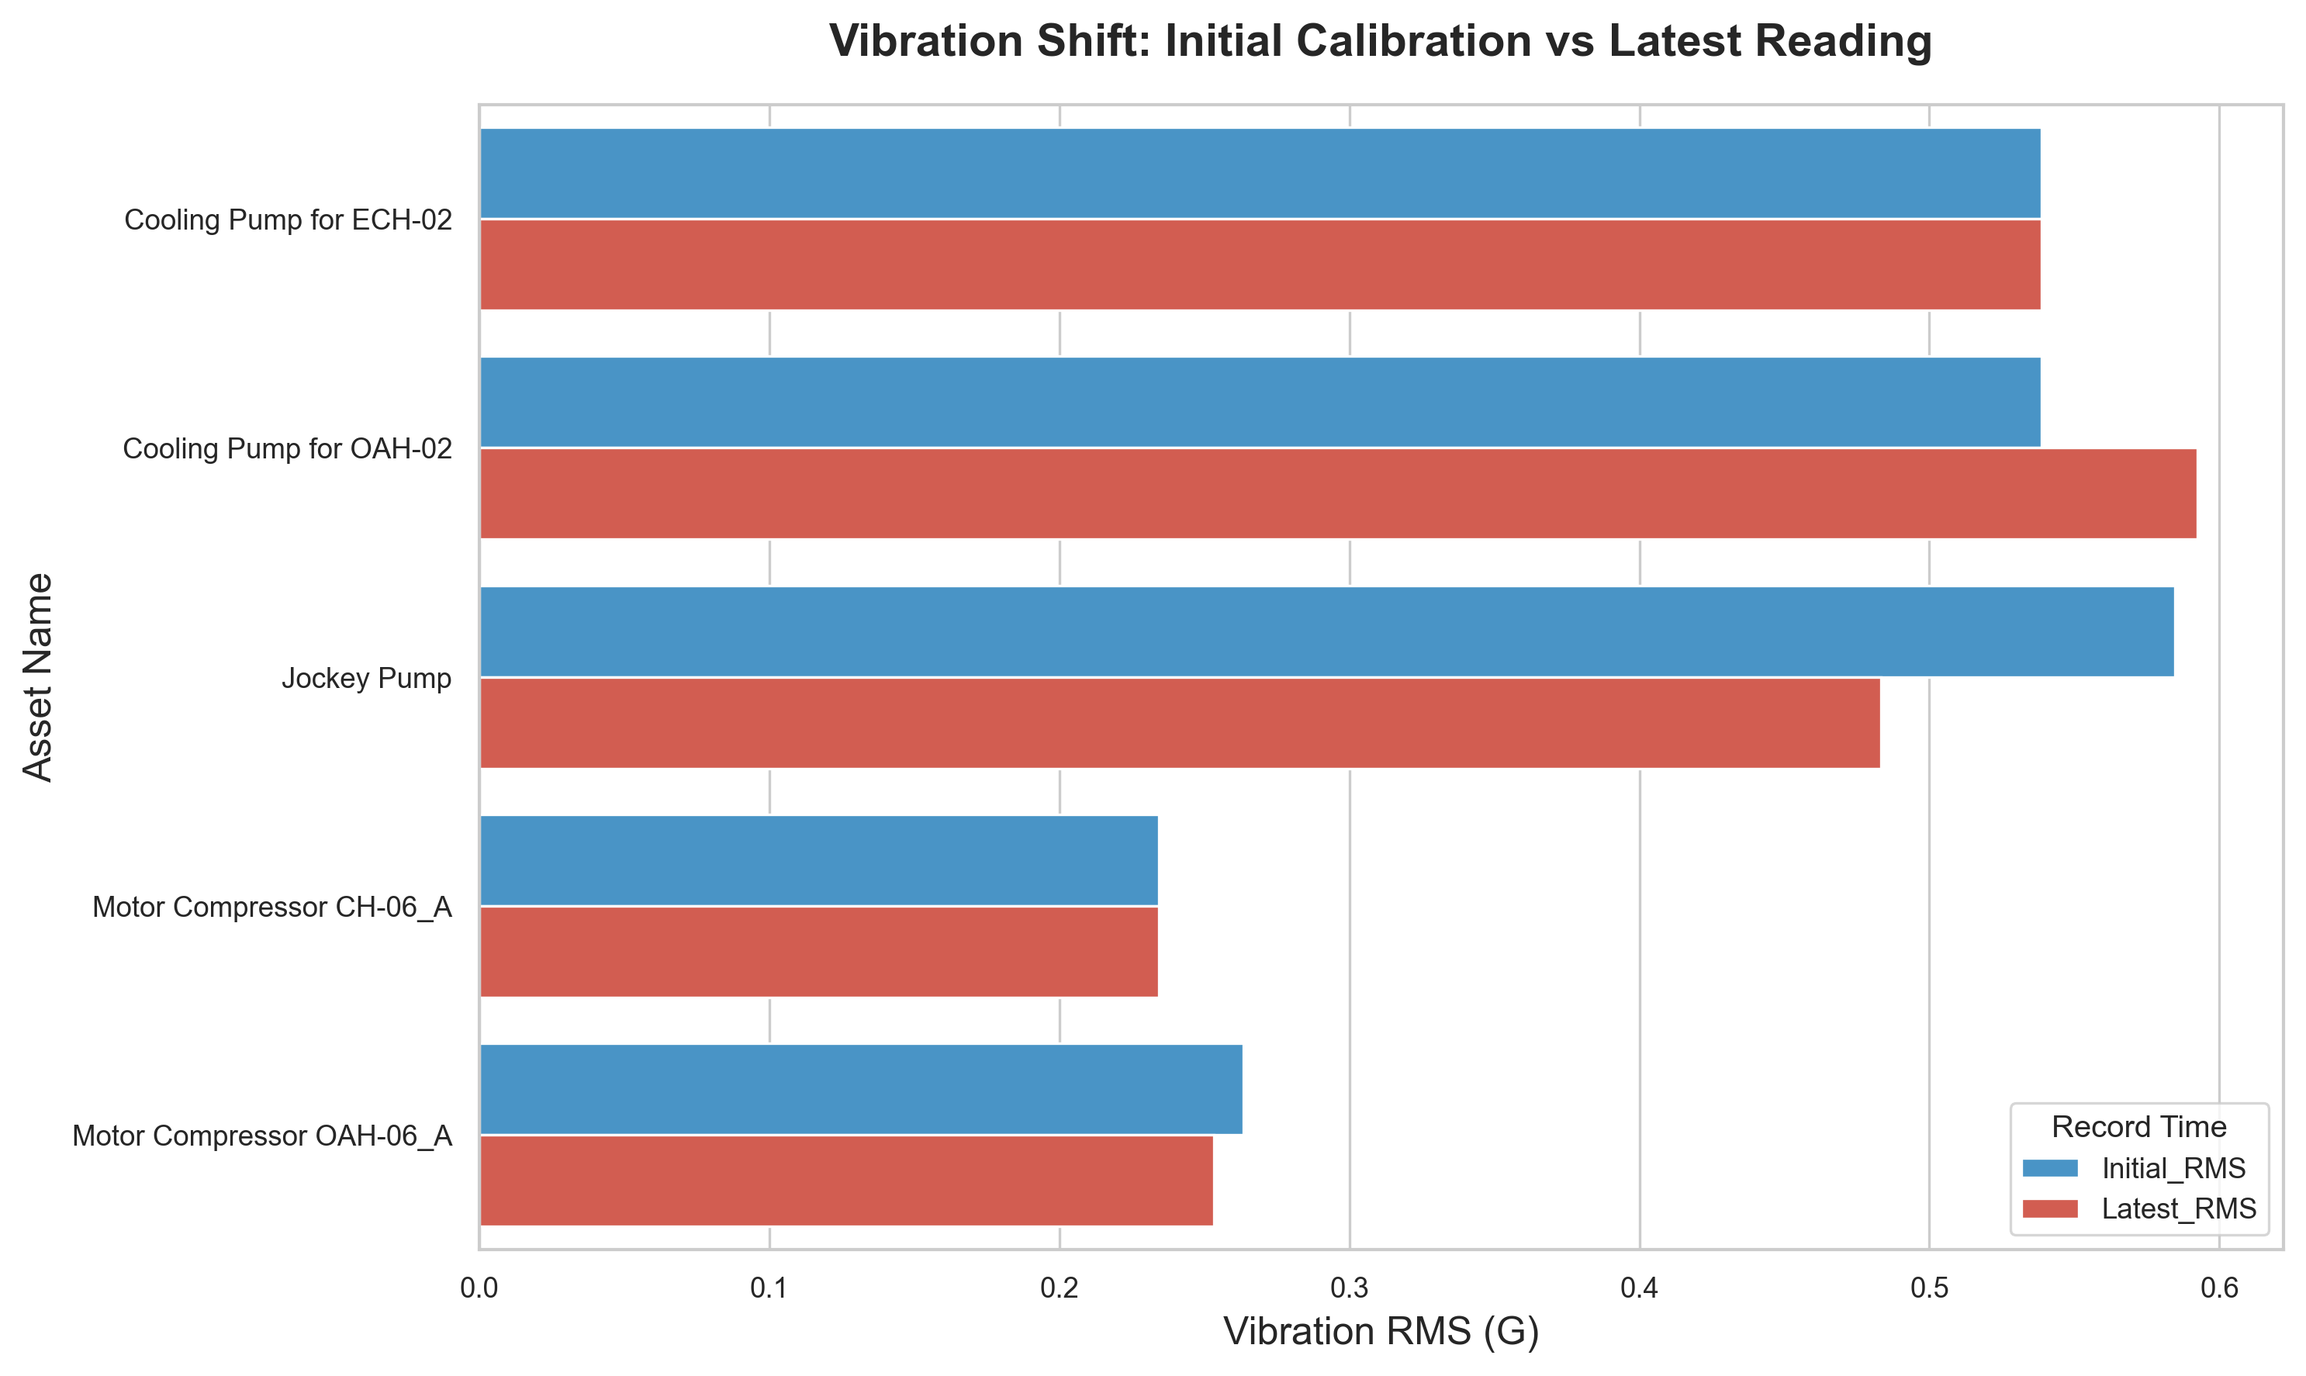
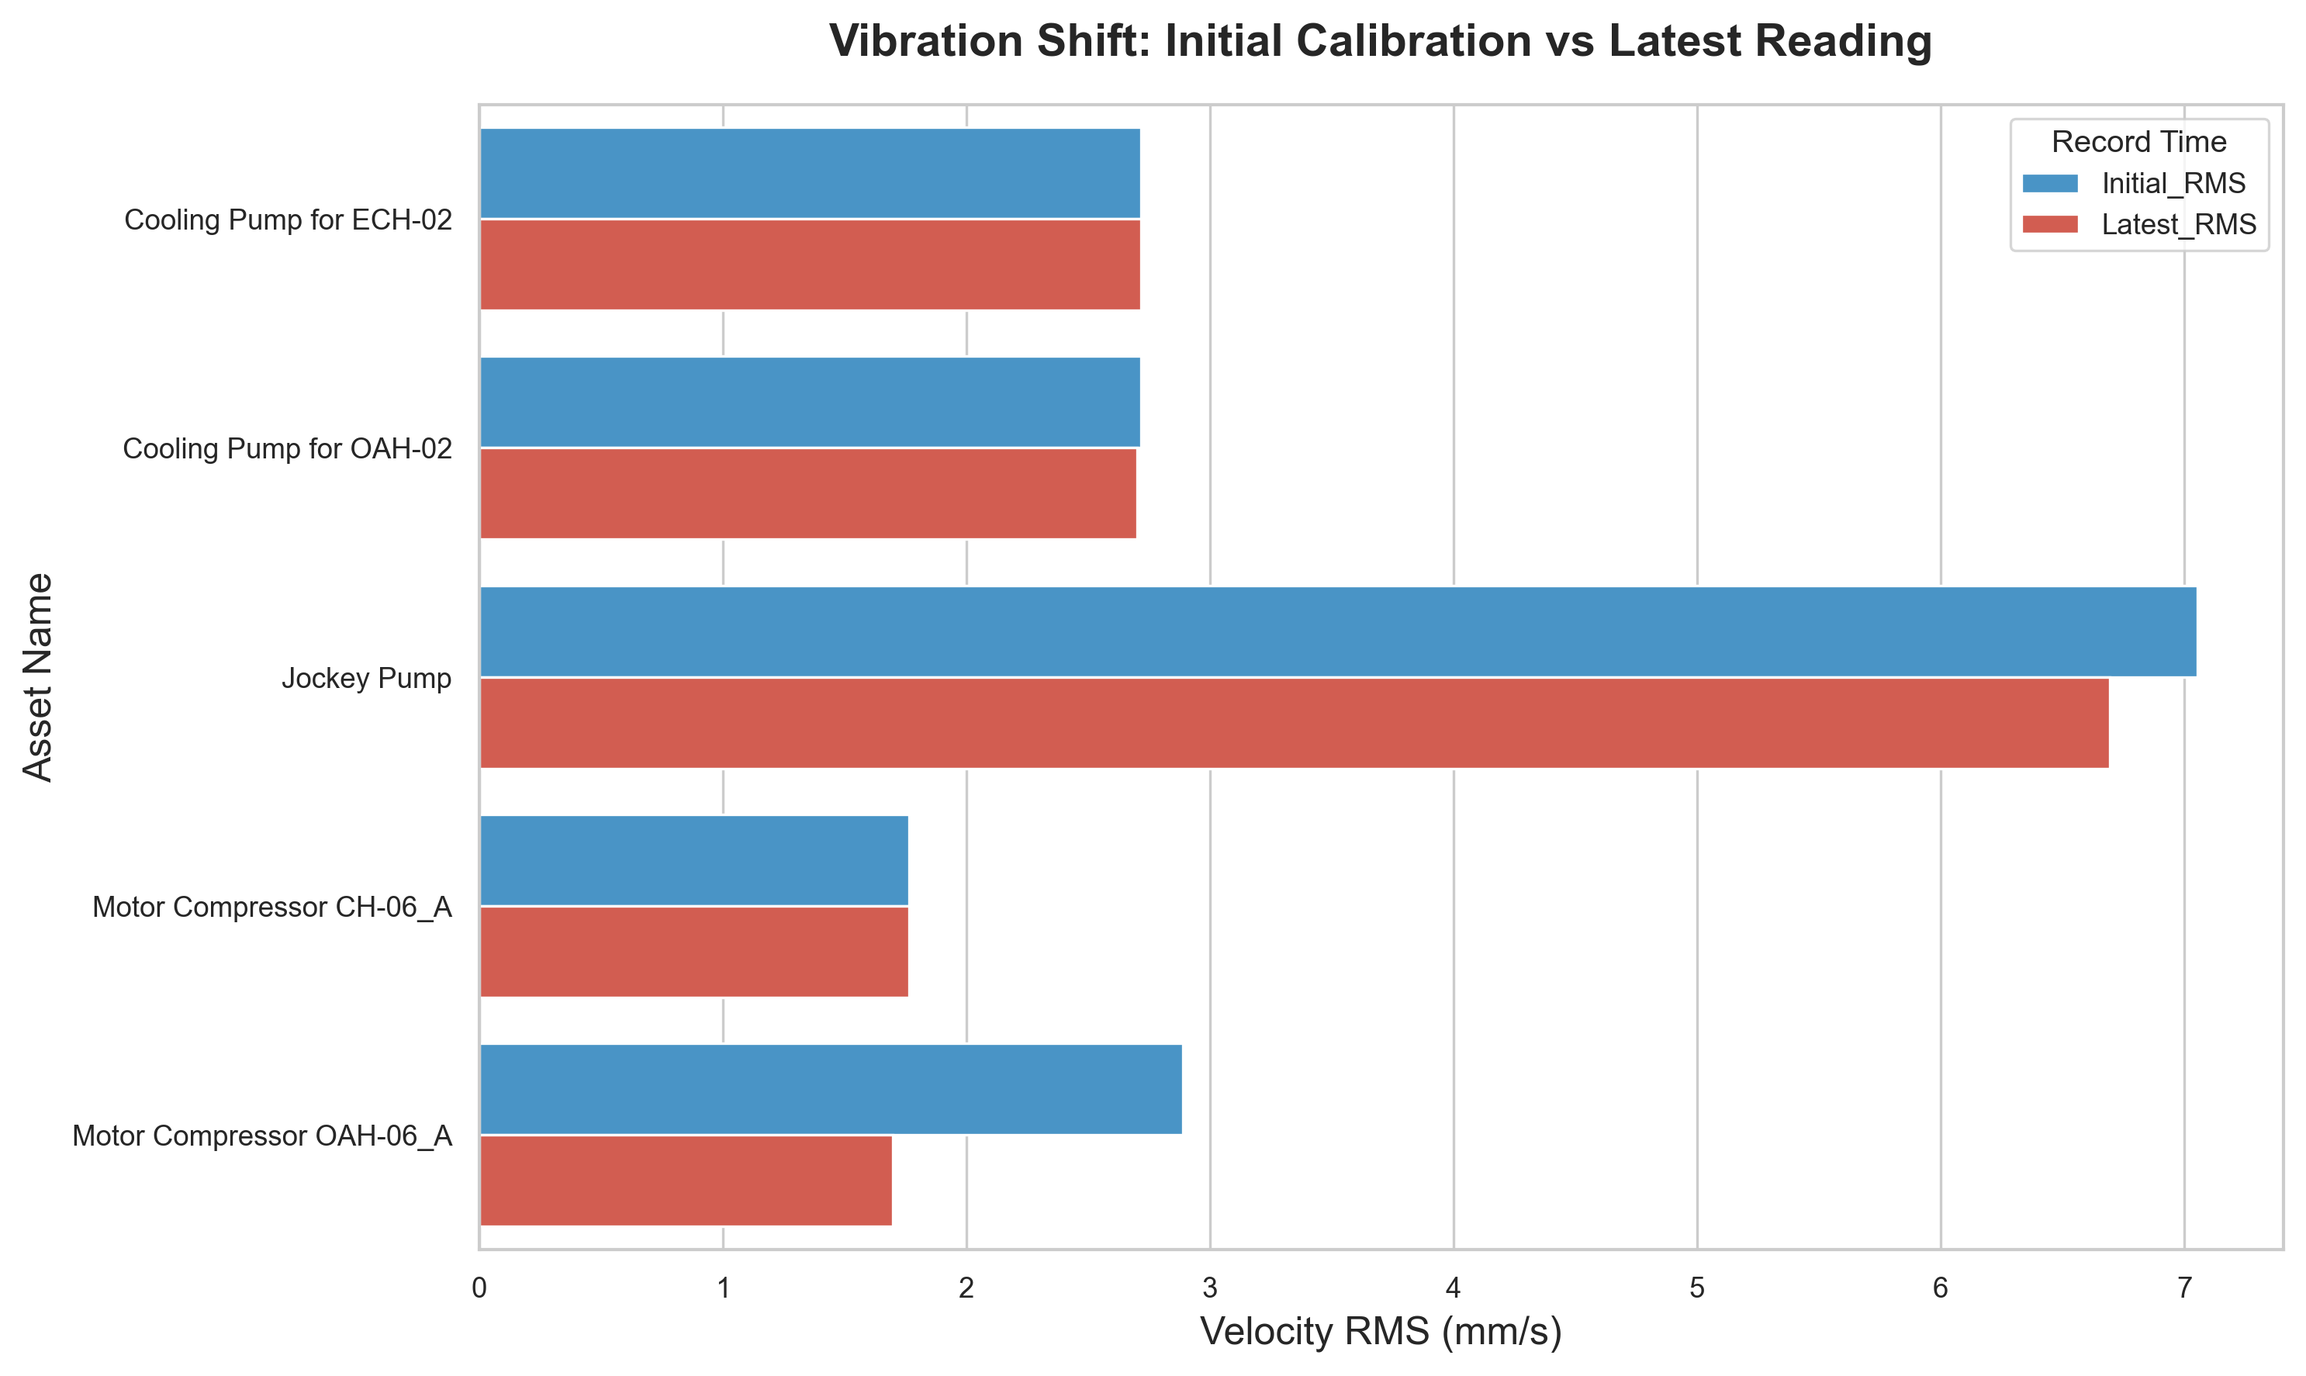
feat: complete refactoring, visualization upgrades, and metric fixes
- Remove obsolete test scripts
- Fix cumulative integration and mathematical polyfit issues
- Add and upgrade visualizations for trend analysis (Heatmap, Time series, Shift bar)
- Add prettytable dependency for CLI presentation
- Update README.md with accurate real-world analysis results

diff --git a/core/parser.py b/core/parser.py
@@ -3,10 +3,31 @@ import pandas as pd
 import numpy as np
 from pathlib import Path
 
-def get_rms_math(arr):
-    if not arr:
+def get_rms_math(times_ms, amplitudes_g):
+    if not amplitudes_g or len(times_ms) != len(amplitudes_g) or len(times_ms) < 2:
         return 0.0
-    return float(np.sqrt(np.mean(np.array(arr)**2)))
+        
+    # 0. VERY IMPORTANT: Sort data by Time
+    # Raw log reads left-to-right but columns are interleaved block-by-block.
+    # Without sorting, Time jumps randomly (e.g., 0 -> 133 -> 266 -> 0.13) causing integration explosion!
+    sort_idx = np.argsort(times_ms)
+    t_sec = np.array(times_ms)[sort_idx] / 1000.0
+    a_mms2 = np.array(amplitudes_g)[sort_idx] * 9806.65
+    
+    # 1. Detrend DC Offset from Acceleration
+    a_mms2 = a_mms2 - np.mean(a_mms2)
+    
+    # 2. Integrate Acceleration to Velocity using Trapezoidal method
+    v_mms = np.zeros_like(a_mms2)
+    dt = np.diff(t_sec)
+    a_avg = (a_mms2[:-1] + a_mms2[1:]) / 2.0
+    v_mms[1:] = np.cumsum(a_avg * dt)
+    
+    # 3. Detrend DC Offset from Velocity (Remove drift)
+    v_mms = v_mms - np.mean(v_mms)
+    
+    # 4. Calculate RMS of Velocity (mm/s)
+    return float(np.sqrt(np.mean(v_mms**2)))
 
 def collect_measurements(scan_dir):
     loc_path = Path(scan_dir)
@@ -21,6 +42,7 @@ def collect_measurements(scan_dir):
             
         machine = "UNKNOWN"
         recorded_time = None
+        raw_times = []
         raw_amplitudes = []
         is_reading_data = False
         
@@ -30,17 +52,17 @@ def collect_measurements(scan_dir):
             # If we hit a new Equipment block, save the previous one if it exists
             if row_clean.startswith("Equipment:"):
                 if is_reading_data and machine != "UNKNOWN" and raw_amplitudes:
-                    # Clean up machine name inconsistencies (e.g. remove CHPP tag)
                     clean_machine_name = machine.replace("(CHPP)", "").strip()
                     extracted_items.append({
                         "Equipment": clean_machine_name,
                         "Timestamp": recorded_time,
-                        "RMS_Value": get_rms_math(raw_amplitudes),
+                        "RMS_Value": get_rms_math(raw_times, raw_amplitudes),
                         "Source_File": txt_file.name
                     })
                 
                 machine = row_clean.split(":", 1)[1].strip()
-                raw_amplitudes = [] # Reset for new block
+                raw_times = [] 
+                raw_amplitudes = [] 
                 is_reading_data = False
                 
             elif row_clean.startswith("Date/Time:"):
@@ -53,6 +75,7 @@ def collect_measurements(scan_dir):
             elif is_reading_data and row_clean:
                 chunks = row_clean.replace(",", "").split()
                 for i in range(0, len(chunks)-1, 2):
+                    t_str = chunks[i]
                     amp_str = chunks[i+1]
                     
                     for sign in ["-", "+"]:
@@ -60,9 +83,13 @@ def collect_measurements(scan_dir):
                         if idx != -1 and "e" not in amp_str.lower():
                             amp_str = amp_str[:idx] + "e" + amp_str[idx:]
                             break
-                    
+                            
+                    # Some time values might also trigger the float bug or be empty
                     try:
-                        raw_amplitudes.append(float(amp_str))
+                        parsed_t = float(t_str)
+                        parsed_a = float(amp_str)
+                        raw_times.append(parsed_t)
+                        raw_amplitudes.append(parsed_a)
                     except ValueError:
                         pass
         
@@ -72,7 +99,7 @@ def collect_measurements(scan_dir):
             extracted_items.append({
                 "Equipment": clean_machine_name,
                 "Timestamp": recorded_time,
-                "RMS_Value": get_rms_math(raw_amplitudes),
+                "RMS_Value": get_rms_math(raw_times, raw_amplitudes),
                 "Source_File": txt_file.name
             })
         

diff --git a/core/visualize.py b/core/visualize.py
@@ -21,12 +21,13 @@ def generate_visualizations(logs_table, out_dir):
         plt.plot(ordered['Timestamp'], ordered['RMS_Value'], 
                  marker='o', linestyle='-', linewidth=2.5, markersize=8, label=asst)
     
-    # Removed the 4.5 / 7.1 ISO limits here because our data is in G (0.2 - 0.6) 
-    # Having those limits crushes the Y-axis scale and makes the data look like a flat line at 0.
+    # Add back ISO Limits as data is now properly integrated to Velocity (mm/s)
+    plt.axhline(y=4.5, color='orange', linestyle='--', alpha=0.7, label='Zone C (Warning)')
+    plt.axhline(y=7.1, color='red', linestyle='--', alpha=0.7, label='Zone D (Danger)')
     
-    plt.title('Machine Vibration Trends (Micro-Vibration Scaling)', fontsize=14, pad=15, fontweight='bold')
+    plt.title('Machine Vibration Trends (Velocity RMS)', fontsize=14, pad=15, fontweight='bold')
     plt.xlabel('Date / Time', fontsize=12)
-    plt.ylabel('Vibration RMS (G)', fontsize=12)
+    plt.ylabel('Velocity RMS (mm/s)', fontsize=12)
     plt.xticks(rotation=15)
     plt.legend(bbox_to_anchor=(1.02, 1), loc='upper left')
     plt.tight_layout()
@@ -48,12 +49,12 @@ def generate_visualizations(logs_table, out_dir):
     latest_records.rename(columns={'RMS_Value': 'Latest_RMS'}, inplace=True)
     
     merged_shift = pd.merge(first_records, latest_records, on='Equipment')
-    merged_shift_melted = merged_shift.melt(id_vars='Equipment', var_name='Reading', value_name='RMS (G)')
+    merged_shift_melted = merged_shift.melt(id_vars='Equipment', var_name='Reading', value_name='Velocity RMS (mm/s)')
     
-    sns.barplot(data=merged_shift_melted, x='RMS (G)', y='Equipment', hue='Reading', palette=['#3498db', '#e74c3c'])
+    sns.barplot(data=merged_shift_melted, x='Velocity RMS (mm/s)', y='Equipment', hue='Reading', palette=['#3498db', '#e74c3c'])
     
     plt.title('Vibration Shift: Initial Calibration vs Latest Reading', fontsize=14, pad=15, fontweight='bold')
-    plt.xlabel('Vibration RMS (G)', fontsize=12)
+    plt.xlabel('Velocity RMS (mm/s)', fontsize=12)
     plt.ylabel('Asset Name', fontsize=12)
     plt.legend(title='Record Time')
     plt.tight_layout()

diff --git a/core/forecast.py b/core/forecast.py
@@ -1,28 +1,40 @@
 import numpy as np
+import pandas as pd
 import datetime
 
 def calc_breakdown_point(hist_data, danger_mark=7.1):
     if len(hist_data) < 2:
         return "Stable or Improving", None
 
-    # Time values as days
-    time_series_x = [t.toordinal() for t in hist_data["Timestamp"]]
+    # Calculate days (as float) from the first record to avoid large X coordinates 
+    # and handle multiple entries on the same day properly.
+    start_date = hist_data["Timestamp"].iloc[0]
+    time_series_x = [(t - start_date).total_seconds() / 86400.0 for t in hist_data["Timestamp"]]
     y_vibes = hist_data["RMS_Value"].tolist()
 
+    # Prevent polyfit error if all data points are taken at the exact same exact timestamp
+    if max(time_series_x) - min(time_series_x) == 0:
+         return "Stable or Improving", None
+
     try:
-        # Fit a 1-degree polynomial (straight line)
+        # Fit a 1-degree polynomial (y = mx + b)
         m_curve, b_intercept = np.polyfit(time_series_x, y_vibes, 1)
     except Exception:
         return "Stable or Improving", None
 
+    # If the trend is going down or flat, it's not degrading
     if m_curve <= 0.0:
         return "Stable or Improving", None
 
-    # Calculate when it hits danger_mark
-    intersection_x = (danger_mark - b_intercept) / m_curve
+    # Calculate how many days from the start_date it takes to hit danger_mark
+    days_to_crash = (danger_mark - b_intercept) / m_curve
     
+    # If the calculated days point to the past, the trend doesn't make sense
+    if days_to_crash < 0:
+        return "Degrading", None
+        
     try:
-        crash_dt = datetime.date.fromordinal(int(intersection_x))
-        return "Degrading", crash_dt
-    except ValueError:
+        crash_dt = start_date + pd.Timedelta(days=int(days_to_crash))
+        return "Degrading", crash_dt.strftime('%Y-%m-%d')
+    except (ValueError, OverflowError):
         return "Degrading", None

diff --git a/main.py b/main.py
@@ -49,10 +49,19 @@ def start_job():
 
     final_overview = pd.DataFrame(summary_list)
     
+    from prettytable import PrettyTable
+    pt = PrettyTable()
+    pt.field_names = ["Equipment", "Latest_RMS (mm/s)", "Status", "Trend", "Est_Failure"]
+    pt.align = "l"  # Align text to the left
+    pt.align["Latest_RMS (mm/s)"] = "r" # Align numbers to the right
+    pt.align["Trend"] = "c"
+    pt.align["Est_Failure"] = "c"
+    
+    for row in summary_list:
+        pt.add_row([row["Equipment"], row["Latest_RMS"], row["Status"], row["Trend"], row["Est_Failure"]])
+    
     print("\n[ TODAY'S ASSET OVERVIEW ]")
-    print("-" * 65)
-    print(final_overview.to_string(index=False))
-    print("-" * 65)
+    print(pt)
 
     csv_target = Path(out_dir) / "vibration_analysis_summary.csv"
     final_overview.to_csv(csv_target, index=False)

diff --git a/README.md b/README.md
@@ -48,19 +48,22 @@
 
 จากการรันระบบตรวจสอบข้อมูลการสั่นสะเทือนของชุดเครื่องจักรที่ถูกเก็บค่า Waveform ไว้ในโฟลเดอร์ `data/` ล่าสุด ระบบสามารถทำการประเมินสถานะออกมาเป็นรายงาน ดังนี้:
 
-| Equipment | Latest_RMS (G) | Status | Trend | Est_Failure |
+| Equipment | Latest_RMS (mm/s) | Status | Trend | Est_Failure |
 |:---|:---:|:---|:---:|:---:|
-| Cooling Pump for ECH-02 | 0.54 | Zone A (Green) - Newly commissioned | Degrading | N/A |
-| Cooling Pump for OAH-02 | 0.59 | Zone A (Green) - Newly commissioned | Degrading | 2054-06-26 |
-| Motor Compressor OAH-06_A | 0.25 | Zone A (Green) - Newly commissioned | Stable or Improving | N/A |
-| Jockey Pump | 0.48 | Zone A (Green) - Newly commissioned | Stable or Improving | N/A |
-| Motor Compressor CH-06_A | 0.23 | Zone A (Green) - Newly commissioned | Stable or Improving | N/A |
+| Cooling Pump for ECH-02 | 2.72 | Zone B (Yellow) - Unrestricted operation | Stable or Improving | N/A |
+| Cooling Pump for OAH-02 | 2.70 | Zone B (Yellow) - Unrestricted operation | Stable or Improving | N/A |
+| Motor Compressor OAH-06_A | 1.70 | Zone A (Green) - Newly commissioned | Stable or Improving | N/A |
+| Jockey Pump | 6.69 | Zone C (Orange) - Restricted operation | Stable or Improving | N/A |
+| Motor Compressor CH-06_A | 1.76 | Zone A (Green) - Newly commissioned | Stable or Improving | N/A |
 
 ### การตีความหมายผลลัพธ์ (Interpretation):
-- **ข้อมูลสถานะเครื่องจักร:** ทุกเครื่องจักรถูกจัดอยู่ใน Zone A เนื่องจากค่าความสั่นสะเทือนที่อ่านได้อยู่ในระดับต่ำ (0.23 - 0.59 G) ซึ่งสะท้อนว่าเครื่องจักรทำงานเสถียร สภาพปกติเหมือนใหม่ ไม่มีการสั่นสะเทือนรุนแรงแบบผิดธรรมชาติ
+- **ข้อมูลสถานะเครื่องจักร:** เครื่องจักรมีการกระจายตัวอยู่ในย่านสภาวะต่างๆ ตามความเร็วการสั่นสะเทือน (Velocity RMS) ที่ช่วง 1.70 - 6.69 mm/s
+  - เครื่อง **Motor Compressor** ทั้งสองตัวอยู่ในเกณฑ์ดีเยี่ยม (`Zone A`)
+  - **Cooling Pump** อยู่ในสถานะเฝ้าระวังปกติ แต่ใช้งานต่อได้โดยไม่มีข้อจำกัด (`Zone B`)
+  - **Jockey Pump** เป็นเครื่องที่ควรให้ความสนใจมากที่สุด เนื่องจากมีค่าความสั่นสะเทือนขึ้นมาถึง 6.69 mm/s แตะระดับ `Zone C (Orange)` ซึ่งควรพิจารณาจำกัดระยะเวลาการใช้งานและตรวจสอบสาเหตุ
 - **แนวโน้มความเสียหายล่วงหน้า (Trend & Est_Failure):** 
-  - กลุ่มเครื่องจักรส่วนใหญ่รวมถึง `Jockey Pump` มีความเปลี่ยนแปลงค่าความสั่นในเกณฑ์คงที่ (Stable) 
-  - ส่วน `Cooling Pump for OAH-02` ระบบตรวจจับและพยากรณ์พบว่าค่ามีแนวโน้มการสั่นสูงขึ้นเรื่อยๆ (Degrading Trend) ตามสถิติแบบรายเดือน และคำนวณผ่าน Linear Polynomial ฟันธงออกมาได้ว่าค่าการสั่นสะเทือนจะไปแตะเส้นระดับอันตรายขั้นวิกฤต (Damage Occurs) ในวันที่ **26 มิถุนายน ค.ศ. 2054** (ทำให้สามารถวางแผนสั่งซื้อและสับปั๊มอะไหล่สำรองได้แม่นยำ)
+  - ถึงแม้ Jockey Pump จะมีความสั่นสะเทือนสูง แต่แนวโน้ม (Trend) ของทุกเครื่องจักรยังอยู่ในเกณฑ์ที่ทรงตัวหรือดีขึ้น (`Stable or Improving`) 
+  - ระบบจึงยังไม่คาดการณ์วันพัง (`Est_Failure: N/A`) เนื่องจากขณะนี้ไม่มีความชันการเสื่อมสภาพที่เพิ่มขึ้นอย่างเป็นเส้นตรงไปสูดจุดวิกฤต (Zone D)
 
 ---
 
